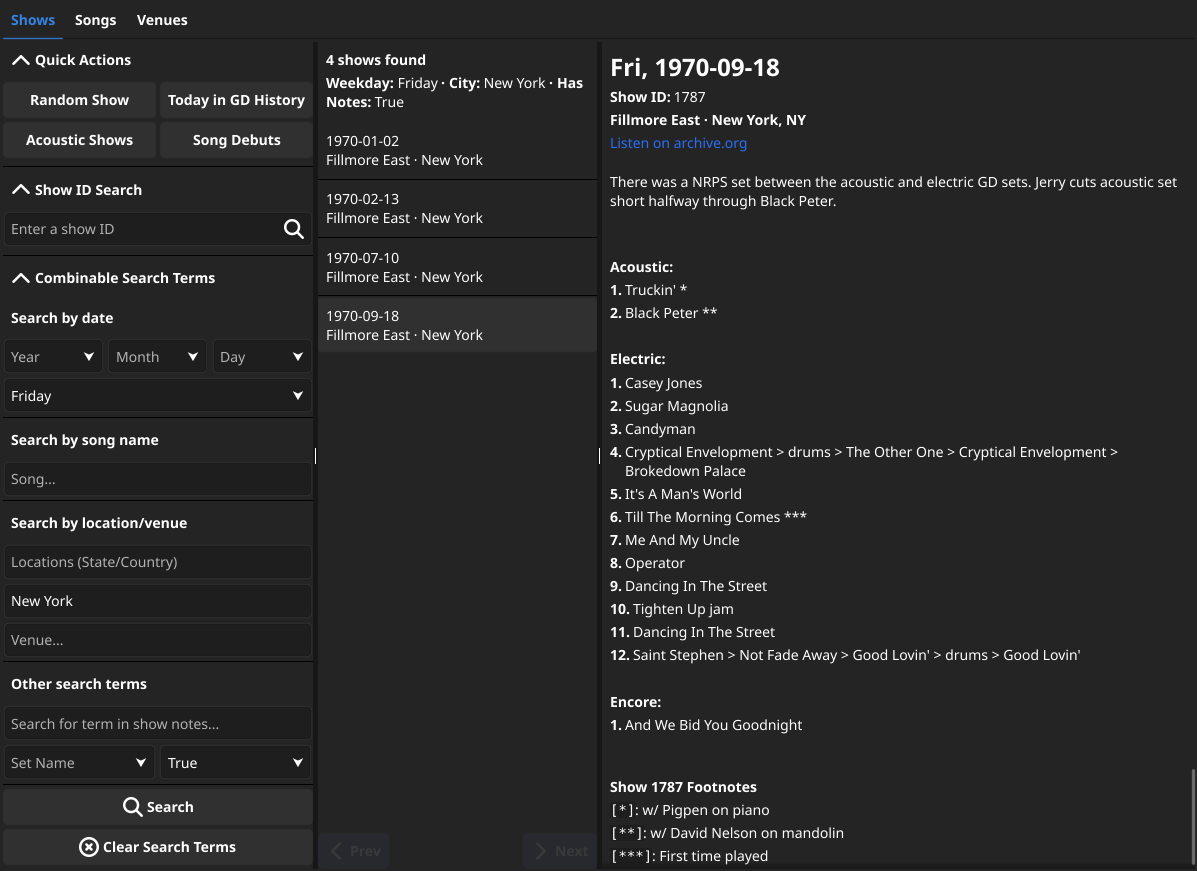
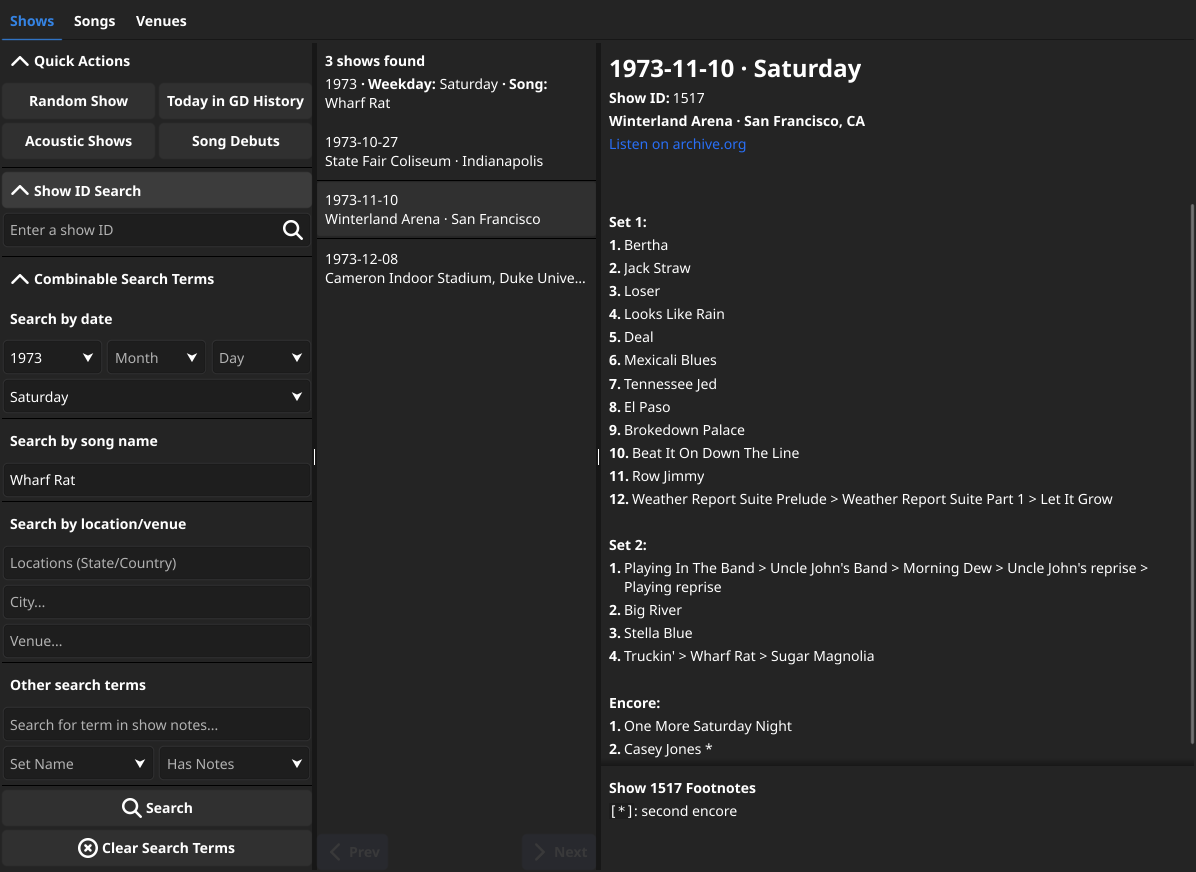
Update README

diff --git a/README.md b/README.md
@@ -71,7 +71,7 @@ Any changes to the Go source code or Dockerfile will require a rebuild `docker c
 After spinning up the database + API server in Docker, `go run ./cmd/gui` will
 launch the GUI client with various show search methods, a table of all song stats,
 and a table of all venue stats. The initial launch may take a few moments for
-Fyne to build/compile.
+Fyne to build/compile. Pre-built executables for Windows/Linux are also [available](https://github.com/LunarDrift/gddb/releases).
 
 ![Example Screenshot](./examples/gddb1.png)
 ![Example Screenshot](./examples/gddb2.png)
